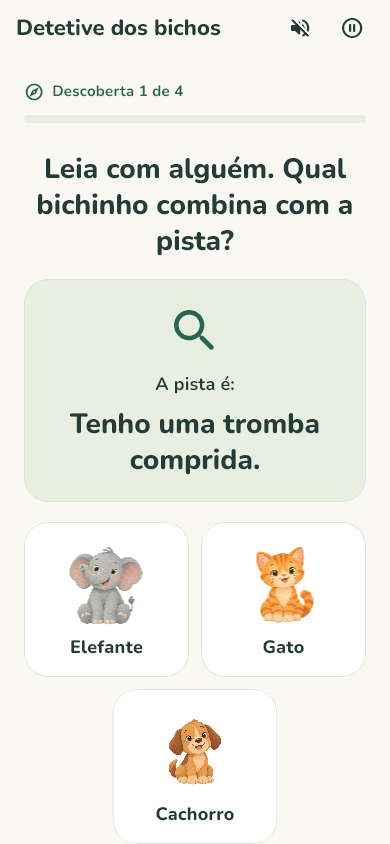
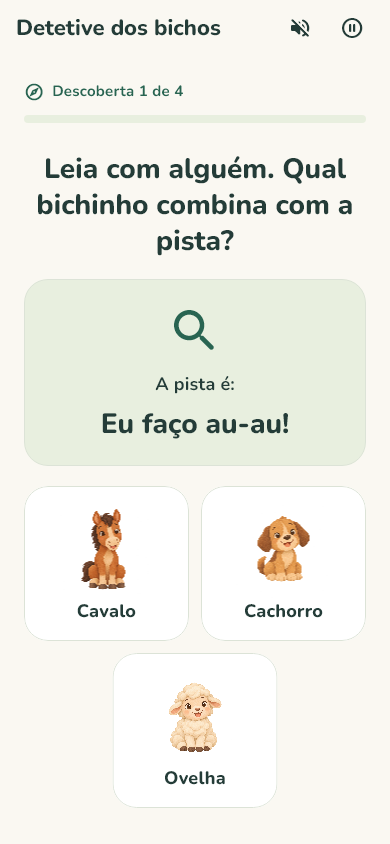
UPDATES README

diff --git a/tool/generate_readme_previews.dart b/tool/generate_readme_previews.dart
@@ -1,0 +1,167 @@
+import 'dart:io';
+import 'dart:math';
+import 'dart:ui' as ui;
+
+import 'package:bicho_a_bicho/app/app.dart';
+import 'package:bicho_a_bicho/core/theme/app_theme.dart';
+import 'package:bicho_a_bicho/features/games/domain/drawing_template.dart';
+import 'package:bicho_a_bicho/features/games/domain/game_definition.dart';
+import 'package:bicho_a_bicho/features/games/domain/game_session.dart';
+import 'package:bicho_a_bicho/features/games/presentation/game_page.dart';
+import 'package:bicho_a_bicho/features/games/presentation/game_view_model.dart';
+import 'package:bicho_a_bicho/features/progress/presentation/learning_report.dart';
+import 'package:bicho_a_bicho/features/settings/presentation/app_settings.dart';
+import 'package:flutter/material.dart';
+import 'package:flutter/rendering.dart';
+import 'package:flutter/services.dart';
+import 'package:flutter_localizations/flutter_localizations.dart';
+import 'package:flutter_test/flutter_test.dart';
+
+import '../test/support/fakes.dart';
+import '../test/support/profile_navigation.dart';
+
+const _phoneSize = Size(430, 1200);
+const _outputDirectory = 'docs/previews/readme';
+
+/// Run with: flutter test tool/generate_readme_previews.dart
+void main() {
+  setUpAll(() async {
+    await (FontLoader(
+      'Nunito',
+    )..addFont(rootBundle.load('fonts/Nunito.ttf'))).load();
+    await (FontLoader(
+      'MaterialIcons',
+    )..addFont(rootBundle.load('fonts/MaterialIcons-Regular.otf'))).load();
+  });
+
+  testWidgets('export current app screens for the README', (tester) async {
+    tester.view.devicePixelRatio = 1;
+    addTearDown(tester.view.resetPhysicalSize);
+    addTearDown(tester.view.resetDevicePixelRatio);
+    final settings = AppSettings(MemorySettingsRepository());
+    addTearDown(settings.dispose);
+    await settings.createProfile(animalId: 'cat');
+    await settings.createProfile(animalId: 'elephant');
+    await settings.createProfile(animalId: 'duck');
+
+    tester.view.physicalSize = _phoneSize;
+    final appKey = GlobalKey();
+    await tester.pumpWidget(
+      RepaintBoundary(
+        key: appKey,
+        child: AnimalApp(settings: settings),
+      ),
+    );
+    await tester.pumpAndSettle();
+    await tester.tap(find.text('Começar agora'));
+    await tester.pumpAndSettle();
+    await _capture(tester, appKey, 'profiles');
+    await chooseLearner(tester, 'Meu Cachorro');
+    tester.view.physicalSize = const Size(1280, 1560);
+    await tester.pumpAndSettle();
+    await _capture(tester, appKey, 'home');
+    tester.view.physicalSize = const Size(1280, 1900);
+    await tester.pumpAndSettle();
+    await tester.tap(find.text('Bichinhos'));
+    await tester.pumpAndSettle();
+    await _capture(tester, appKey, 'animals');
+    await tester.pumpWidget(const SizedBox());
+
+    for (final game in games) {
+      tester.view.physicalSize = _phoneSize;
+      final model = GameViewModel(
+        session: GameSession(
+          kind: game.kind,
+          choiceCount: 3,
+          rounds: 4,
+          random: Random(game.kind == GameKind.drawing ? 3 : 2),
+        ),
+        audio: FakeAudio(),
+        speech: FakeSpeech(),
+        onObservation: settings.recorderForActiveProfile(),
+      );
+      if (game.kind == GameKind.counting) {
+        await model.next();
+        await model.next();
+      }
+      if (game.kind == GameKind.drawing) {
+        final contour = drawingTemplates[model.round.animal.id]!.contour;
+        final drawing = model.drawing!;
+        drawing.begin(contour.first);
+        for (final point in contour.skip(1)) {
+          drawing.append(point);
+        }
+        drawing.end();
+        drawing.showGuide(true);
+      }
+      final key = GlobalKey();
+      await tester.pumpWidget(
+        RepaintBoundary(
+          key: key,
+          child: _app(
+            GamePage(game: game, settings: settings, viewModel: model),
+          ),
+        ),
+      );
+      await tester.pumpAndSettle();
+      await _capture(tester, key, 'game_${game.kind.name}');
+      if (game.kind != GameKind.drawing) {
+        model.showHint();
+        model.answer(model.round.answer);
+      }
+      await tester.pumpWidget(const SizedBox());
+    }
+
+    tester.view.physicalSize = const Size(780, 2200);
+    final reportKey = GlobalKey();
+    await tester.pumpWidget(
+      RepaintBoundary(
+        key: reportKey,
+        child: _app(
+          Scaffold(
+            body: SingleChildScrollView(
+              padding: const EdgeInsets.all(24),
+              child: LearningReport(settings: settings),
+            ),
+          ),
+        ),
+      ),
+    );
+    await tester.pumpAndSettle();
+    await _capture(tester, reportKey, 'report');
+    await tester.pumpWidget(const SizedBox());
+  });
+}
+
+Widget _app(Widget home) => MaterialApp(
+  debugShowCheckedModeBanner: false,
+  theme: AppTheme.create(),
+  locale: const Locale('pt', 'BR'),
+  supportedLocales: const [Locale('pt', 'BR')],
+  localizationsDelegates: GlobalMaterialLocalizations.delegates,
+  home: home,
+);
+
+Future<void> _capture(WidgetTester tester, GlobalKey key, String name) async {
+  final pictures = tester.widgetList<Image>(find.byType(Image)).toList();
+  await tester.runAsync(() async {
+    for (final picture in pictures) {
+      await precacheImage(picture.image, key.currentContext!);
+    }
+  });
+  await tester.pumpAndSettle();
+  expect(tester.takeException(), isNull, reason: 'Rendering $name');
+  await tester.runAsync(() async {
+    final boundary =
+        key.currentContext!.findRenderObject()! as RenderRepaintBoundary;
+    final image = await boundary.toImage(pixelRatio: 2);
+    try {
+      final bytes = await image.toByteData(format: ui.ImageByteFormat.png);
+      final file = File('$_outputDirectory/$name.png');
+      await file.parent.create(recursive: true);
+      await file.writeAsBytes(bytes!.buffer.asUint8List());
+    } finally {
+      image.dispose();
+    }
+  });
+}

diff --git a/README.md b/README.md
@@ -20,7 +20,7 @@
   </p>
 </div>
 
-![Tela inicial do Bicho a Bicho com as atividades educativas](docs/previews/home_1280x900.png)
+![Tela inicial do Bicho a Bicho com as atividades educativas](docs/previews/readme/home.png)
 
 ## Sobre o projeto
 
@@ -68,20 +68,33 @@ Esses registros representam interações com as atividades. Não constituem uma 
 
 ## Galeria
 
+Capturas da versão atual, geradas diretamente pelos widgets Flutter em resolução 2×. Os cartões e o acompanhamento usam apenas dados fictícios de demonstração. Clique nas imagens para ampliá-las.
+
 <table>
   <tr>
-    <td align="center"><strong>Escolha do cartão</strong><br><img src="docs/previews/profile_selection.png" alt="Tela de seleção dos cartões de usuários" width="240"></td>
-    <td align="center"><strong>Associação visual</strong><br><img src="docs/previews/game_matching.png" alt="Atividade Encontre o bichinho" width="240"></td>
-    <td align="center"><strong>Contagem</strong><br><img src="docs/previews/game_counting.png" alt="Atividade Vamos contar" width="240"></td>
+    <td align="center" valign="top"><strong>Escolha do cartão</strong><br><a href="docs/previews/readme/profiles.png"><img src="docs/previews/readme/profiles.png" alt="Seleção de quatro cartões com animais diferentes e opção de criar um novo" width="240"></a></td>
+    <td align="center" valign="top"><strong>Encontre o bichinho</strong><br><a href="docs/previews/readme/game_matching.png"><img src="docs/previews/readme/game_matching.png" alt="Associação visual com cachorro, cavalo e ovelha entre as alternativas" width="240"></a></td>
+    <td align="center" valign="top"><strong>A letra do bicho</strong><br><a href="docs/previews/readme/game_letters.png"><img src="docs/previews/readme/game_letters.png" alt="Escolha da letra inicial que completa o nome cachorro" width="240"></a></td>
   </tr>
   <tr>
-    <td align="center"><strong>Histórias da turma</strong><br><img src="docs/previews/game_stories.png" alt="Atividade de leitura compartilhada com animais" width="240"></td>
-    <td align="center"><strong>Desenho</strong><br><img src="docs/previews/game_drawing.png" alt="Quadro para desenhar o contorno de um animal" width="240"></td>
-    <td align="center"><strong>Acompanhamento</strong><br><img src="docs/previews/parent_report.png" alt="Relatório local de uso das atividades" width="240"></td>
+    <td align="center" valign="top"><strong>Vamos contar?</strong><br><a href="docs/previews/readme/game_counting.png"><img src="docs/previews/readme/game_counting.png" alt="Contagem de três elefantes com alternativas numéricas" width="240"></a></td>
+    <td align="center" valign="top"><strong>Olá, bichinho!</strong><br><a href="docs/previews/readme/game_speaking.png"><img src="docs/previews/readme/game_speaking.png" alt="Identificação de um cachorro por voz ou escolha de imagem" width="240"></a></td>
+    <td align="center" valign="top"><strong>Detetive dos bichos</strong><br><a href="docs/previews/readme/game_clues.png"><img src="docs/previews/readme/game_clues.png" alt="Descoberta do animal a partir da pista Eu faço au-au" width="240"></a></td>
+  </tr>
+  <tr>
+    <td align="center" valign="top"><strong>Histórias da turma</strong><br><a href="docs/previews/readme/game_stories.png"><img src="docs/previews/readme/game_stories.png" alt="História Uma bola no parque, com duas cenas e pergunta por imagens" width="240"></a></td>
+    <td align="center" valign="top"><strong>Desenhe o bichinho</strong><br><a href="docs/previews/readme/game_drawing.png"><img src="docs/previews/readme/game_drawing.png" alt="Modelo e contorno de gato desenhado, com controles de desfazer, limpar e conferir" width="240"></a></td>
+    <td align="center" valign="top"><strong>Acompanhamento</strong><br><a href="docs/previews/readme/report.png"><img src="docs/previews/readme/report.png" alt="Relatório com registros fictícios, filtros e contadores das atividades" width="240"></a></td>
   </tr>
 </table>
 
-As capturas são geradas pelo renderer do Flutter em testes. Outras telas e tamanhos estão em [docs/previews](docs/previews/).
+<details>
+  <summary><strong>Ver o catálogo completo dos oito bichinhos</strong></summary>
+
+  <p><img src="docs/previews/readme/animals.png" alt="Catálogo atual com cachorro, gato, leão, elefante, vaca, cavalo, ovelha e pato" width="960"></p>
+</details>
+
+As imagens da galeria estão em [docs/previews/readme](docs/previews/readme/). Outros tamanhos de tela usados nos testes estão em [docs/previews](docs/previews/).
 
 ## Tecnologias e arquitetura
 
@@ -177,9 +190,17 @@ flutter build apk --debug
 
 Os testes usam fakes e não dependem de rede, credenciais ou microfone. Cobrem regras das sessões, ViewModels, preferências, cartões, acompanhamento, desenho, consentimento de analytics e interações dos widgets.
 
-O [registro de validação](docs/VALIDATION.md) documenta **162 testes aprovados**, análise estática sem problemas e builds Android debug e Web release concluídos em **5 de novembro de 2026**. Esses resultados pertencem à execução registrada naquele documento; esta revisão do README não reexecutou a suíte.
+O [registro de validação](docs/VALIDATION.md) documenta **162 testes aprovados**, análise estática sem problemas e builds Android debug e Web release concluídos em **5 de novembro de 2026**. A suíte de 162 testes também foi reexecutada com sucesso durante a atualização das capturas da galeria.
 
-Para atualizar as capturas de tela em `docs/previews/`:
+Para regenerar as 11 capturas em alta resolução usadas pelo README:
+
+```sh
+flutter test tool/generate_readme_previews.dart
+```
+
+O gerador usa os componentes reais, fontes e imagens do aplicativo, com aleatoriedade determinística e armazenamento em memória. Não acessa contas, microfone ou dados reais de usuários. Os arquivos são gravados em `docs/previews/readme/`.
+
+Para atualizar também as capturas nos tamanhos de tela usados pela suíte em `docs/previews/`:
 
 ```sh
 flutter test --dart-define=CAPTURE_PREVIEWS=true
